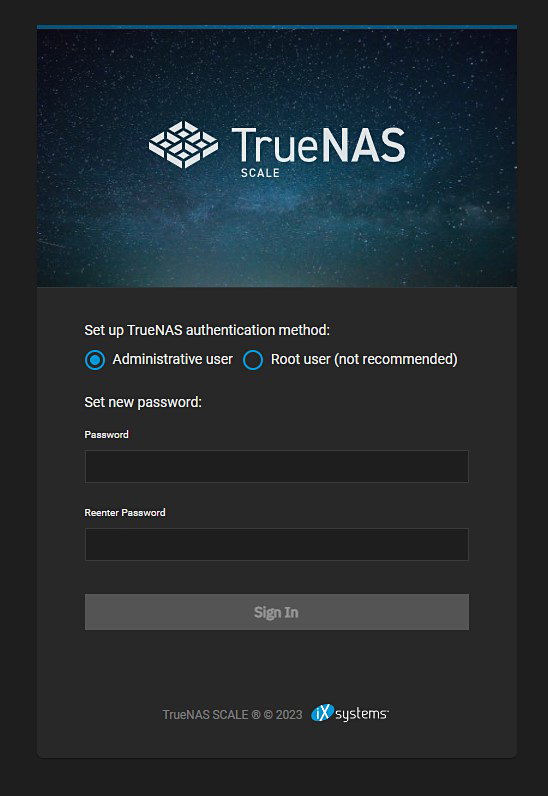
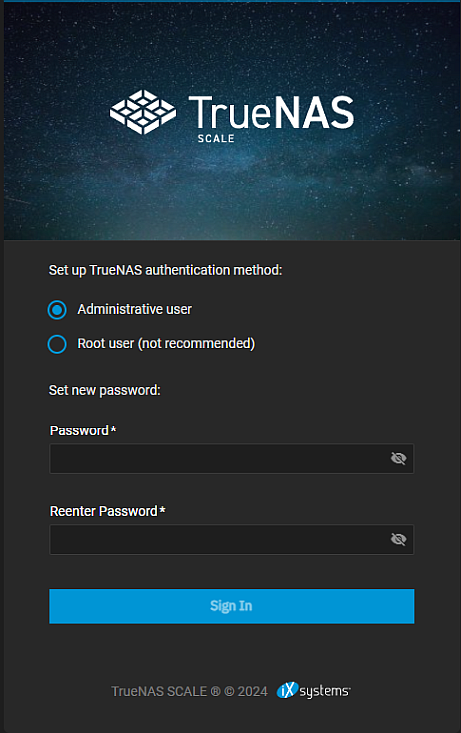
PD-917 Update FirstTimeLogin and the TopToolbar files
This commit updates the content in the FirstTimeLogin.md article with greater details on the three possible scenarios users could see based on how they deploy SCALE.
It creates a new snippet CreateAdminDisableRoot.md to cover what users must do upon first login after installing, updating or migrating to SCALE.
It removes duplicated content in the UIConfigurationSCALE.md article and points users to that article via link.
It updates the Login splash screen users see if they don't install SCALE and create the admin or root user.

diff --git a/content/_includes/TopToolbar.md b/content/_includes/TopToolbar.md
@@ -1,6 +1,9 @@
 &NewLine;
 
-The icon buttons in the top toolbar menu link to the iXsystems site, display the status of TrueCommand and directory servers, and show system processes and configuration menus. You can also collapse and expand the main function menu on the left side of the screen.
+The icon buttons in the top toolbar menu link to the iXsystems site, display the status of TrueCommand and directory servers, show system processes and configuration menus, and shows the admin user currently logged into the system.
+The name given to the administration user displays to the left of the **Settings** icon and the **Power** icon.
+
+You can also collapse and expand the main function menu on the left side of the screen.
 
 {{< trueimage src="/images/SCALE/Dashboard/TopToolbar.png" alt="TrueNAS SCALE Top Toolbar Icons" id="TrueNAS SCALE Top Toolbar Icons" >}}
 

diff --git a/content/SCALE/GettingStarted/Configure/UIConfigurationSCALE.md b/content/SCALE/GettingStarted/Configure/UIConfigurationSCALE.md
@@ -23,8 +23,7 @@ Use the information mentioned in the [installation preparation instructions]({{<
 
 {{< include file="/content/_includes/RootLoginWarnSCALE.md" >}}
 
-After a fresh install from an <file>iso</file> file, administrators log in with the admin account created during install and should no longer log in as the root user.
-After you log into SCALE with the administrator account you can begin to configure SCALE using the web interface.
+After [logging into SCALE]({{< relref "FirstTimeLogin.md#logging-into-the-scale-ui" >}}) with the administrator account you can begin to configure SCALE using the web interface.
 
 ## Enterprise Licenses and Proactive Support
 

diff --git a/content/_includes/CreateAdminDisableRoot.md b/content/_includes/CreateAdminDisableRoot.md
@@ -1,0 +1,6 @@
+&NewLine;
+
+After logging in with the root user credentials, you must immediately create the admin user account and then disable to root user password to comply with FIPS security hardening standards.
+
+The root user still exists but with the password disabled by default, which means only the admin user can log into the system.
+You can activate the password for the root user for some limited uses, but you should return to a security-hardened operation by disabling the root password immediately after you finish with the limited use.
